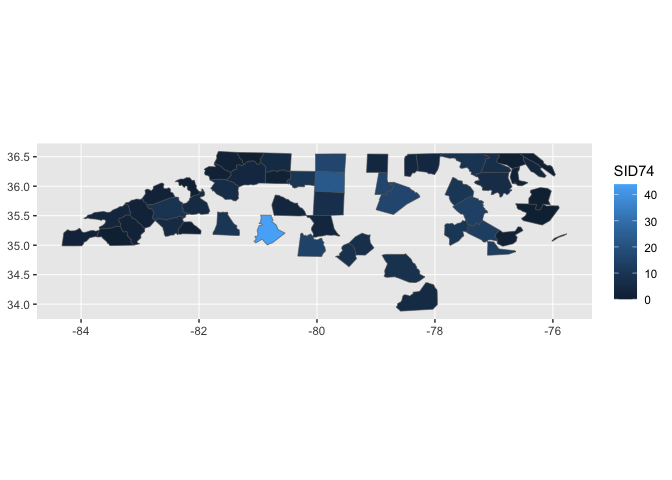
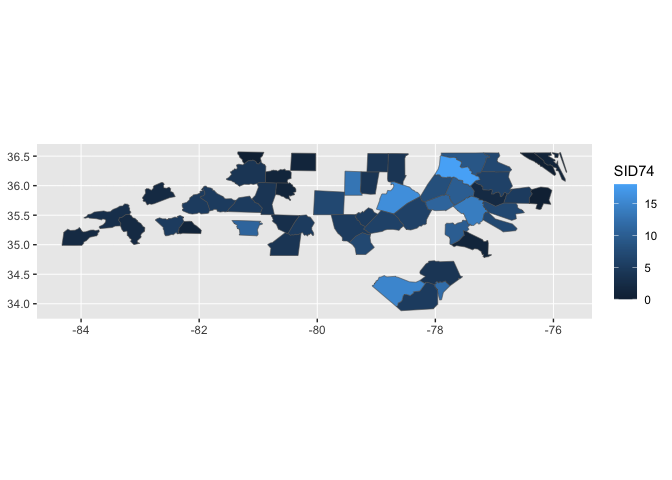
strategy to create convenience functions for smaller geographic areas; maybe should be stamps and default fill color to black or red

diff --git a/README.md b/README.md
@@ -109,6 +109,18 @@ nc_flat %>%
 
 <img src="man/figures/README-unnamed-chunk-4-1.png" width="100%" />
 
+``` r
+
+nc_flat %>% 
+  ggplot() + 
+  aes(fips = FIPS) + 
+  geom_sf_countync() +
+  ggnc:::geom_sf_nc_alamance(fill = "darkred") + 
+  ggnc:::geom_sf_nc_beaufort(fill = "green")
+```
+
+<img src="man/figures/README-unnamed-chunk-4-2.png" width="100%" />
+
 ## Not there yet
 
 ``` r
@@ -188,9 +200,9 @@ layer_scales(flat_file_friendly_approach) %>% head()
 #>  Limits: 33.9 -- 36.6
 
 layer_grob(classic_approach)[[1]]
-#> pathgrob[GRID.pathgrob.592]
+#> pathgrob[GRID.pathgrob.627]
 layer_grob(flat_file_friendly_approach)[[1]]
-#> pathgrob[GRID.pathgrob.593]
+#> pathgrob[GRID.pathgrob.628]
 ```
 
 ## might be nice to keep all of the reference geometries
